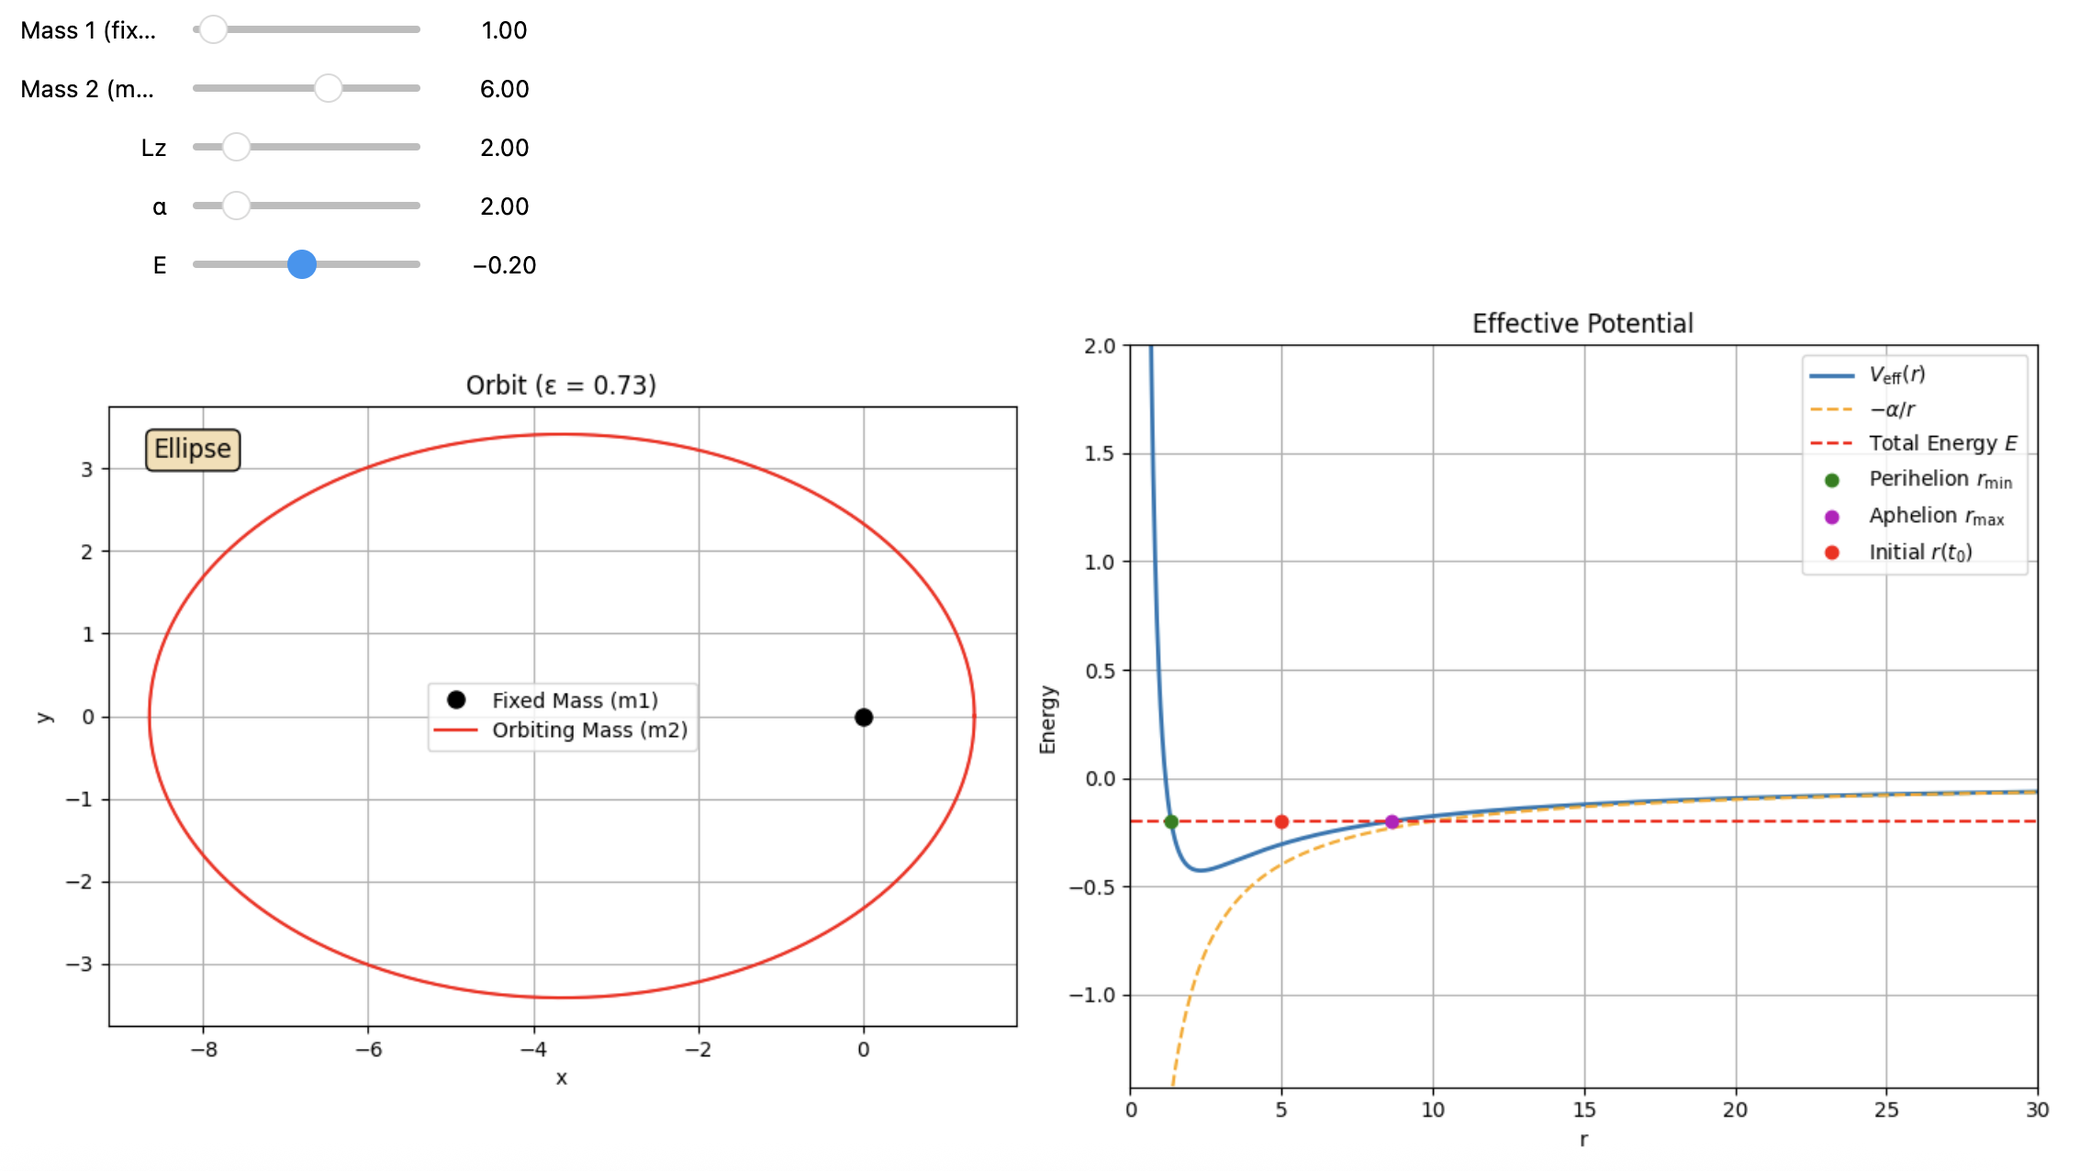
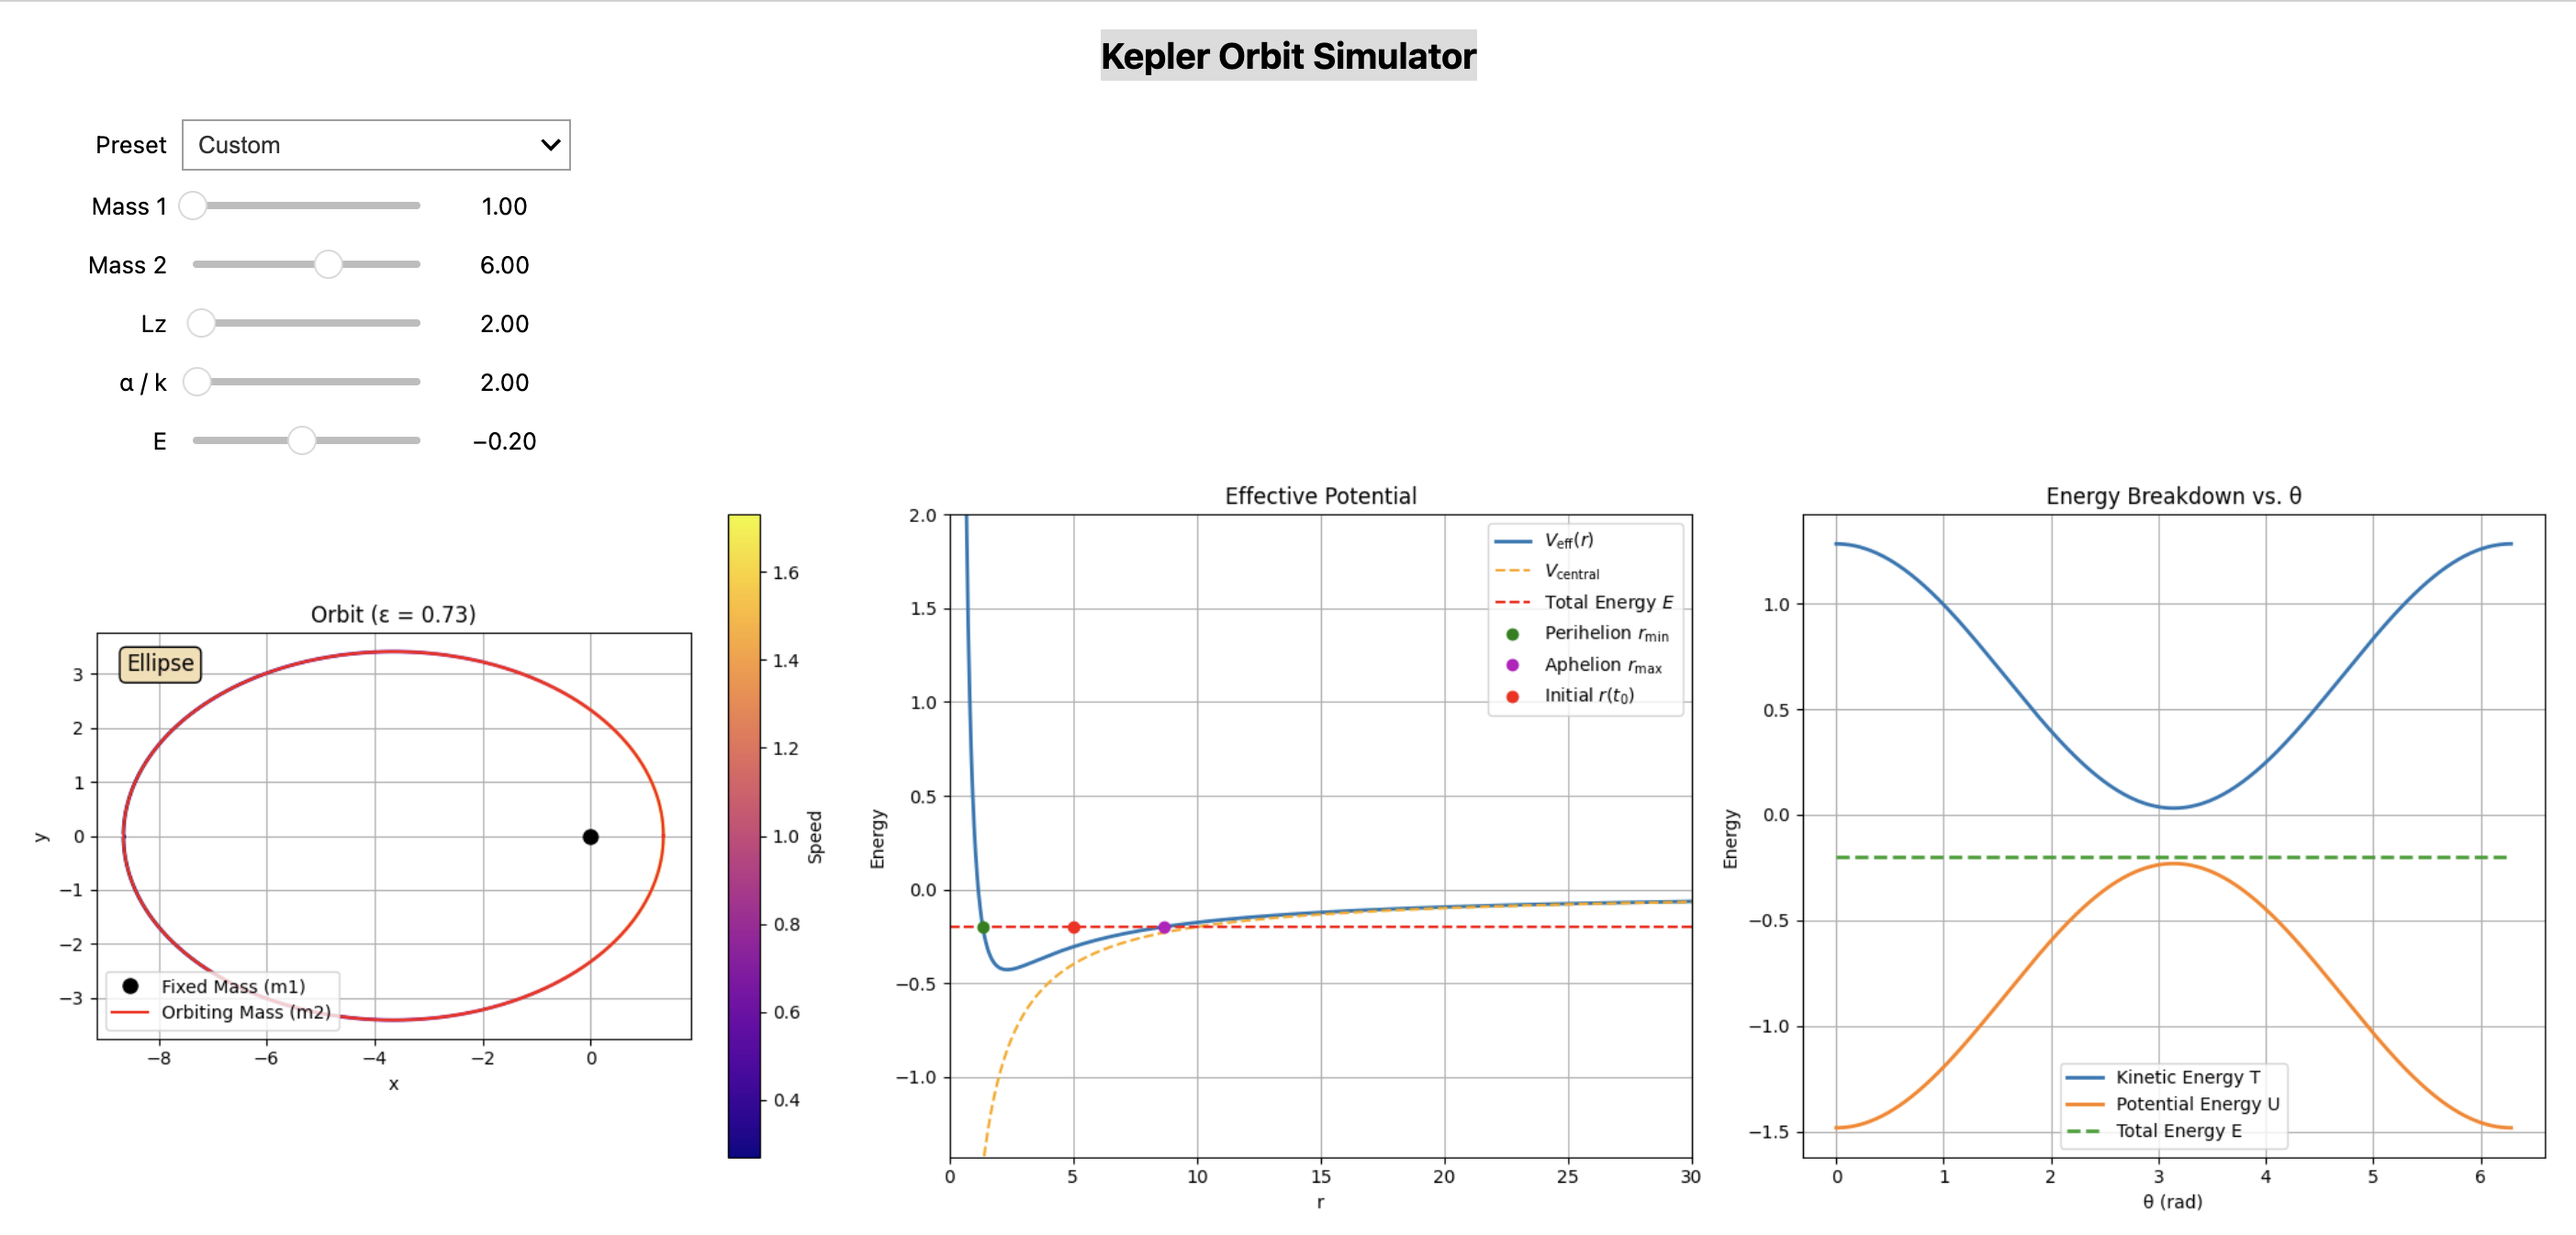
Initial commit with basic simulator

diff --git a/simulator_with_graphs.py b/simulator_with_graphs.py
@@ -1,0 +1,157 @@
+import numpy as np
+import matplotlib.pyplot as plt
+from ipywidgets import interact, FloatSlider, Dropdown, fixed, VBox, HBox, Button, Output, interactive, HTML
+from scipy.optimize import fsolve
+from matplotlib.collections import LineCollection
+
+
+title = HTML("<h2 style='text-align:center;'>Kepler Orbit Simulator</h2>")
+
+def safe_fsolve(func, x0):
+    try:
+        root, info, ier, msg = fsolve(func, x0, full_output=True)
+        if ier == 1:
+            return root[0]
+        else:
+            return None
+    except:
+        return None
+
+
+def kepler_combined(m1, m2, Lz, alpha, E):
+    mu = m1 * m2 / (m1 + m2)
+
+    theta_full = np.linspace(0, 2 * np.pi, 1000)
+    arg = 1 + (2 * E * Lz**2) / (mu * alpha**2)
+
+    if arg < 0:
+        print("❌ Invalid orbit: eccentricity would be complex. Choose higher E or lower Lz.")
+        return
+
+    epsilon = np.sqrt(arg)
+    p = Lz**2 / (mu * alpha)
+    if epsilon >= 1:
+        valid = np.abs(1 + epsilon * np.cos(theta_full)) > 1e-3
+        theta = theta_full[valid]
+    else:
+        theta = theta_full
+
+    denom = 1 + epsilon * np.cos(theta)
+    r = np.where(np.abs(denom) > 1e-5, p / denom, np.nan)
+    x2 = r * np.cos(theta)
+    y2 = r * np.sin(theta)
+
+    dr_dtheta = (p * epsilon * np.sin(theta)) / (1 + epsilon * np.cos(theta))**2
+    theta_dot = Lz / (mu * r**2)
+    r_dot = dr_dtheta * theta_dot
+    T = 0.5 * mu * (r_dot**2 + (r**2 * theta_dot**2))
+    U = -alpha / r
+    E_total = T + U
+
+    r_plot = np.linspace(0.01, 30, 1000)
+    Vcentral = -alpha / r_plot
+    Veff = Lz**2 / (2 * mu * r_plot**2) + Vcentral
+
+    def veff_eq(rval):
+        return Lz**2 / (2 * mu * rval**2) - alpha / rval - E
+
+    rmin = safe_fsolve(veff_eq, 0.5)
+    rmax = safe_fsolve(veff_eq, 5.0)
+
+    fig, axs = plt.subplots(1, 3, figsize=(20, 6))
+
+    axs[0].plot(0, 0, 'ko', label='Fixed Mass (m1)', markersize=8)
+    speed = np.sqrt(r_dot**2 + (r**2 * theta_dot**2))
+    points = np.array([x2, y2]).T.reshape(-1, 1, 2)
+    segments = np.concatenate([points[:-1], points[1:]], axis=1)
+    lc = LineCollection(segments, cmap='plasma', norm=plt.Normalize(speed.min(), speed.max()))
+    lc.set_array(speed)
+    lc.set_linewidth(2)
+    line = axs[0].add_collection(lc)
+    fig.colorbar(line, ax=axs[0], label='Speed')
+    axs[0].plot(x2, y2, 'r', label='Orbiting Mass (m2)')
+    axs[0].set_aspect('equal')
+    axs[0].set_xlabel('x')
+    axs[0].set_ylabel('y')
+    axs[0].grid(True)
+    axs[0].legend(loc='lower left')
+    axs[0].set_title(f'Orbit (ε = {epsilon:.2f})')
+
+    if epsilon < 1:
+        orbit_type = 'Ellipse'
+    elif np.isclose(epsilon, 1.0, atol=1e-2):
+        orbit_type = 'Parabola'
+    else:
+        orbit_type = 'Hyperbola'
+
+    axs[0].text(0.05, 0.95, orbit_type, transform=axs[0].transAxes,
+                fontsize=12, verticalalignment='top',
+                bbox=dict(boxstyle="round", facecolor="wheat"))
+    if epsilon >= 1:
+        axs[0].set_xlim(-10, 10)
+        axs[0].set_ylim(-10, 10)
+
+    axs[1].plot(r_plot, Veff, label=r'$V_{\mathrm{eff}}(r)$', lw=2)
+    axs[1].plot(r_plot, Vcentral, '--', label=r'$V_{\mathrm{central}}$', color='orange')
+    axs[1].hlines(E, r_plot[0], r_plot[-1], color='red', linestyle='--', label='Total Energy $E$')
+    if rmin and rmax:
+        axs[1].plot(rmin, E, 'go', label='Perihelion $r_{\min}$')
+        axs[1].plot(rmax, E, 'mo', label='Aphelion $r_{\max}$')
+        axs[1].plot((rmin + rmax) / 2, E, 'ro', label=r'Initial $r(t_0)$')
+    axs[1].set_xlim(0, 30)
+    axs[1].set_ylim(min(Veff) - 1, 2)
+    axs[1].set_xlabel('r')
+    axs[1].set_ylabel('Energy')
+    axs[1].grid(True)
+    axs[1].legend()
+    axs[1].set_title('Effective Potential')
+
+    axs[2].plot(theta, T, label='Kinetic Energy T', lw=2)
+    axs[2].plot(theta, U, label='Potential Energy U', lw=2)
+    axs[2].plot(theta, E_total, label='Total Energy E', linestyle='--', lw=2)
+    axs[2].set_xlabel('θ (rad)')
+    axs[2].set_ylabel('Energy')
+    axs[2].grid(True)
+    axs[2].legend()
+    axs[2].set_title('Energy Breakdown vs. θ')
+
+    plt.tight_layout()
+    plt.show()
+
+
+presets = {
+    'Custom': {'m1': 1.0, 'm2': 6.0, 'Lz': 2.0, 'alpha': 2.0, 'E': -0.4},
+}
+
+m1_slider = FloatSlider(min=0.1, max=350000, step=0.1, value=1.0, description='Mass 1')
+m2_slider = FloatSlider(min=0.1, max=10.0, step=0.1, value=6.0, description='Mass 2')
+Lz_slider = FloatSlider(min=0.1, max=50.0, step=0.1, value=2.0, description='Lz')
+alpha_slider = FloatSlider(min=0.1, max=100.0, step=0.1, value=2.0, description='α / k')
+E_slider = FloatSlider(min=-5.0, max=5.0, step=0.1, value=-0.4, description='E')
+preset_dropdown = Dropdown(options=list(presets.keys()), description='Preset')
+
+
+def update_from_preset(change):
+    preset = presets[change['new']]
+    m1_slider = FloatSlider(..., layout=dict(width='300px'))
+    m2_slider.value = preset['m2']
+    Lz_slider.value = preset['Lz']
+    alpha_slider.value = preset['alpha']
+    E_slider.value = preset['E']
+
+preset_dropdown.observe(update_from_preset, names='value')
+
+ui = VBox([
+    title,
+    preset_dropdown,
+])
+
+interactive_plot = interactive(kepler_combined,
+                               m1=m1_slider,
+                               m2=m2_slider,
+                               Lz=Lz_slider,
+                               alpha=alpha_slider,
+                               E=E_slider)
+
+display(ui, interactive_plot)
+

diff --git a/animated_orbit.py b/animated_orbit.py
@@ -1,0 +1,81 @@
+import numpy as np
+import matplotlib.pyplot as plt
+from matplotlib.animation import FuncAnimation
+from IPython.display import HTML
+
+# Parameters
+m1 = 1
+m2 = 6
+Lz = 2.0
+alpha = 2.0
+E = -0.20
+
+mu = m1 * m2 / (m1 + m2)
+arg = 1 + (2 * E * Lz**2) / (mu * alpha**2)
+
+if arg < 0:
+    print("❌ Unphysical parameters: eccentricity would be complex.")
+else:
+    p = Lz**2 / (mu * alpha)
+    epsilon = np.sqrt(arg)
+
+    theta = np.linspace(0, 2 * np.pi, 1000)
+    denom = 1 + epsilon * np.cos(theta)
+    r = np.where(np.abs(denom) > 1e-3, p / denom, np.nan)
+    x = r * np.cos(theta)
+    y = r * np.sin(theta)
+    valid = denom > 0
+    x = r[valid] * np.cos(theta[valid])
+    y = r[valid] * np.sin(theta[valid])
+
+    fig, ax = plt.subplots(figsize=(6, 6))
+    ax.set_xlim(-20, 20)
+    ax.set_ylim(-20, 20)
+    ax.set_aspect('equal')
+    ax.grid(True)
+    ax.set_title(f"Orbit of Mass 2 (ε = {epsilon:.2f})")
+
+    ax.plot(x, y, 'r', lw=1, label='Orbit')
+    mass2, = ax.plot([], [], 'ro', label='Mass 2')
+    ax.plot(0, 0, 'ko', label='Fixed Mass 1')
+    ax.legend()
+
+    # Store arrow in a list to allow reassignment inside update()
+    velocity_arrow = [ax.arrow(0, 0, 0, 0, head_width=0.5, color='blue')]
+
+    def update(frame):
+        i = frame
+        mass2.set_data([x[i]], [y[i]])
+        r_i = np.sqrt(x[i]**2 + y[i]**2)
+
+        # Real velocity magnitude from mechanics
+        if r_i == 0:
+            v_mag = 0
+        else:
+            v_mag = np.sqrt(2 * (E + alpha / r_i) / mu)
+
+        # Tangent direction
+        if i < len(x) - 1:
+            dx = x[i+1] - x[i]
+            dy = y[i+1] - y[i]
+        else:
+            dx = x[i] - x[i-1]
+            dy = y[i] - y[i-1]
+
+        tangent_norm = np.sqrt(dx**2 + dy**2)
+        if tangent_norm == 0:
+            vx, vy = 0, 0
+        else:
+            vx = v_mag * dx / tangent_norm
+            vy = v_mag * dy / tangent_norm
+
+        # Remove and redraw arrow
+        velocity_arrow[0].remove()
+        velocity_arrow[0] = ax.arrow(x[i], y[i], vx, vy, head_width=0.5, color='blue')
+
+        return mass2, velocity_arrow[0]
+
+    anim = FuncAnimation(fig, update, frames=len(x), interval=10, blit=True)
+
+    html_anim = anim.to_html5_video()
+    display(HTML(html_anim))
